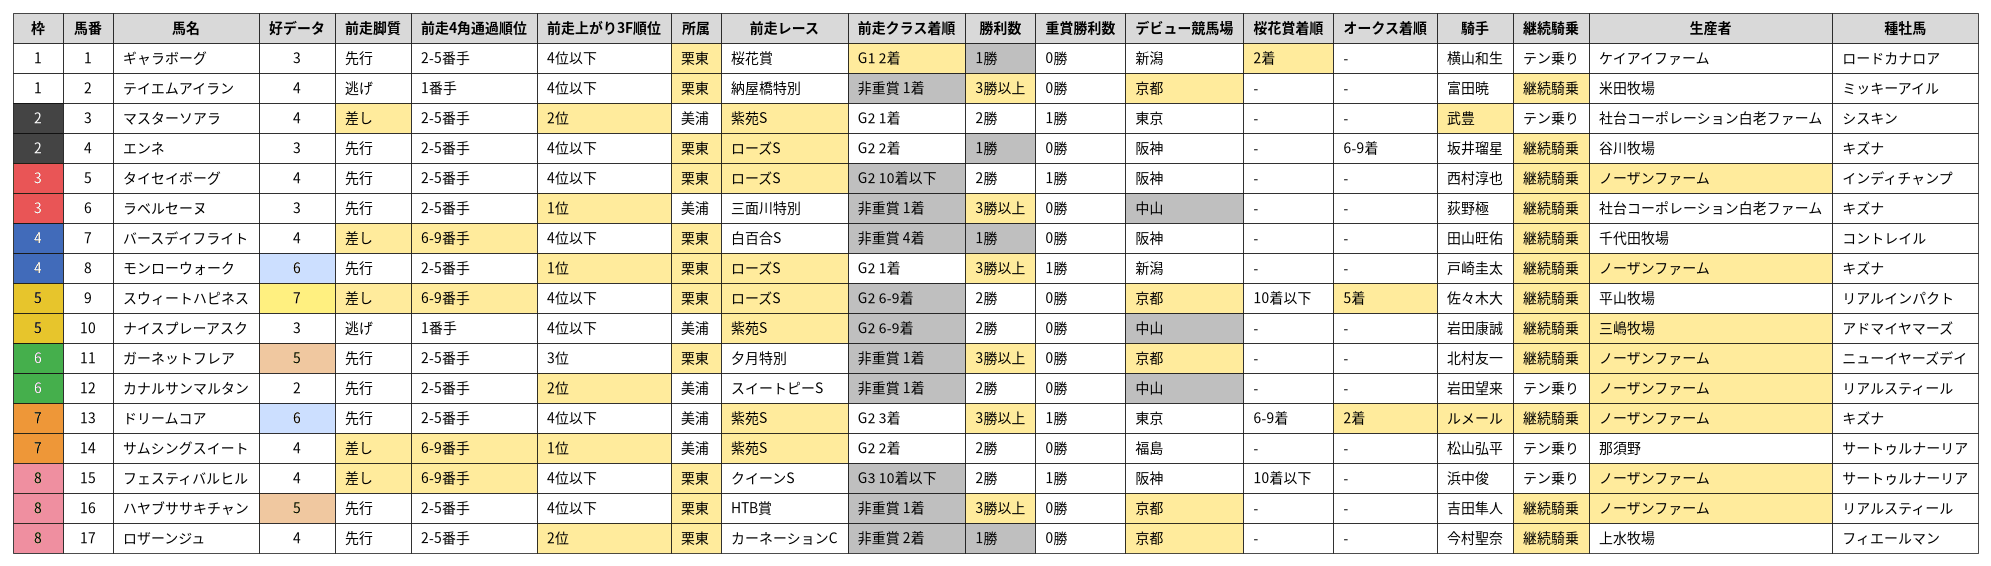
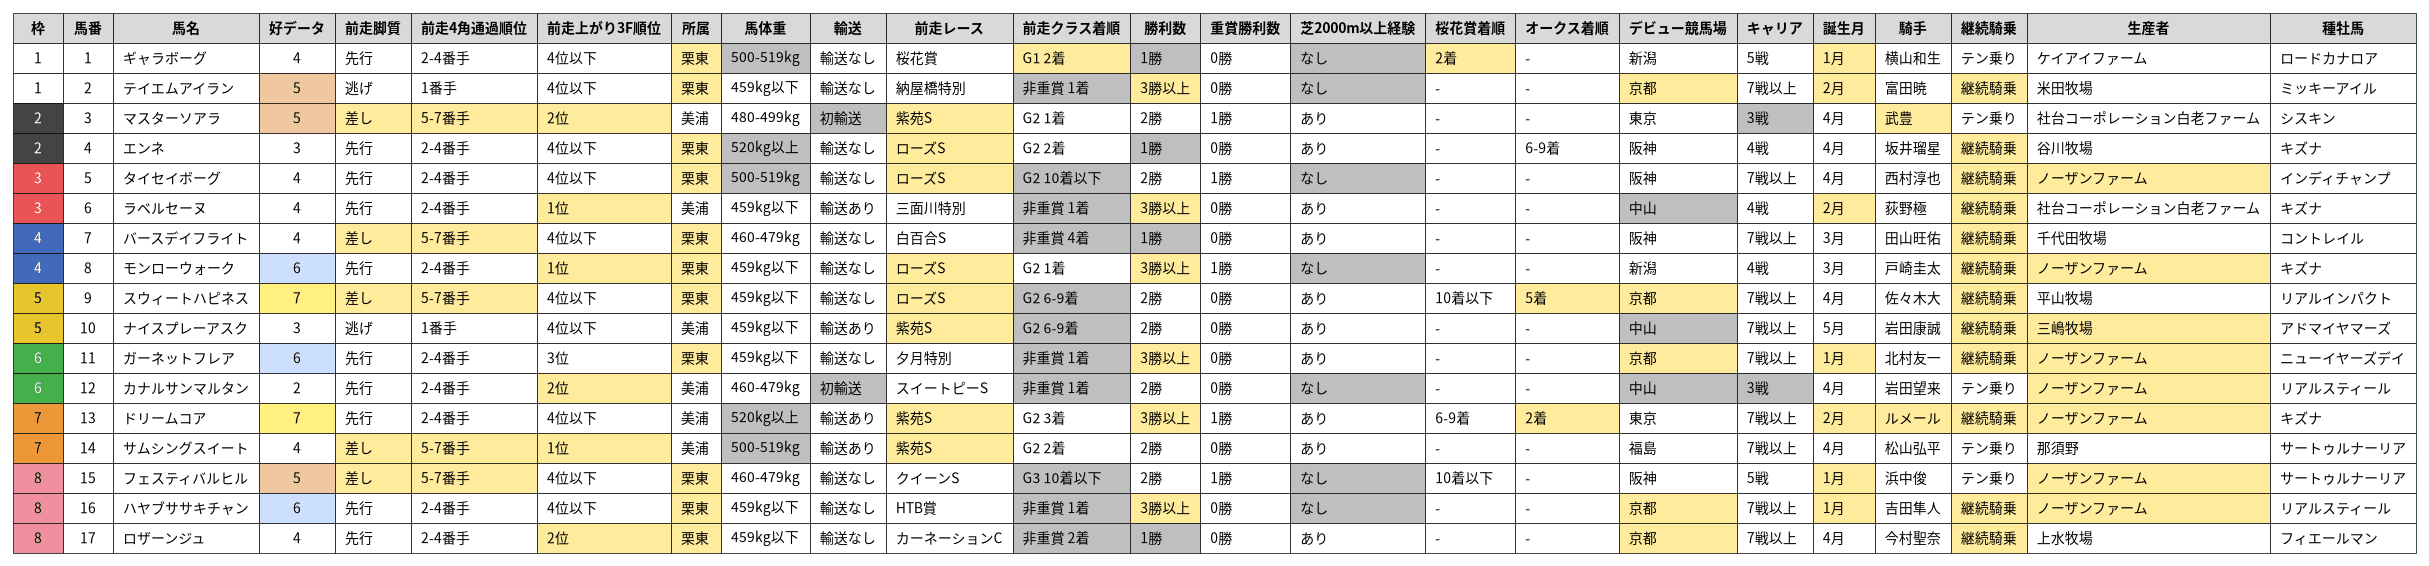
現時点のものに更新

diff --git a/public/2026/2026101808040711_秋華賞/過去の傾向.md b/public/2026/2026101808040711_秋華賞/過去の傾向.md
@@ -51,18 +51,20 @@
 | 通過 | 着度数 | 勝率 | 複率 | 単回 | 複回 |
 | --- | --- | --- | --- | --- | --- |
 | 1番手 | 0-2-0-6 | 0% | 25% | 0% | **105%** |
-| 2-5番手 | 4-0-3-33 | 10% | 18% | 37% | 40% |
-| 6-9番手 | 3-3-0-23 | 10% | 21% | 51% | 46% |
-| 10番手以下 | 1-3-5-53 | 2% | 15% | 2% | 52% |
+| 2-4番手 | 2-0-1-23 | 8% | 12% | 25% | 23% |
+| 5-7番手 | 3-3-2-25 | 9% | 24% | 32% | 57% |
+| 8-10番手 | 2-0-2-18 | 9% | 18% | 57% | 51% |
+| 11番手以下 | 1-3-3-43 | 2% | 14% | 3% | 51% |
 
 ### 前走4角通過順位
 
 | 通過 | 着度数 | 勝率 | 複率 | 単回 | 複回 | 該当馬 |
 | --- | --- | --- | --- | --- | --- | --- |
 | 1番手 | 0-1-1-13 | 0% | 13% | 0% | 33% | 2, 10 |
-| 2-5番手 | 3-3-2-48 | 5% | 14% | 24% | 49% | その他 |
-| 6-9番手 | 1-2-4-31 | 3% | 18% | 3% | 64% | 7, 9, 14, 15 |
-| 10番手以下 | 4-2-1-23 | 13% | 23% | 54% | 43% |  |
+| 2-4番手 | 0-2-1-37 | 0% | 8% | 0% | 31% | その他 |
+| 5-7番手 | 4-2-4-27 | 11% | 27% | 40% | 88% | 3, 7, 9, 14, 15 |
+| 8-10番手 | 1-2-1-19 | 4% | 17% | 10% | 49% |  |
+| 11番手以下 | 3-1-1-19 | 12% | 21% | 58% | 37% |  |
 
 ### 上がり3F順位
 
@@ -88,6 +90,18 @@
 | --- | --- | --- | --- | --- | --- | --- |
 | 美浦 | 3-3-1-43 | 6% | 14% | 18% | 33% | 3, 6, 10, 12, 13, 14 |
 | 栗東 | 5-5-7-72 | 6% | 19% | 25% | 60% | 1, 2, 4, 5, 7, 8, 9, 11, 15, 16, 17 |
+
+### 馬体重
+
+| 馬体重 | 着度数 | 勝率 | 複率 | 単回 | 複回 | 該当馬 |
+| --- | --- | --- | --- | --- | --- | --- |
+| 459kg以下 | 2-5-1-51 | 3% | 14% | 22% | 37% | その他 |
+| 460-479kg | 1-2-5-35 | 2% | 19% | 3% | 67% | 7, 12, 15 |
+| 480-499kg | 5-0-1-15 | 24% | 29% | 80% | 46% | 3 |
+| 500-519kg | 0-1-1-11 | 0% | 15% | 0% | 72% | 1, 5, 14 |
+| 520kg以上 | 0-0-0-3 | 0% | 0% | 0% | 0% | 4, 13 |
+
+※該当馬は調教後馬体重
 
 ### 輸送
 
